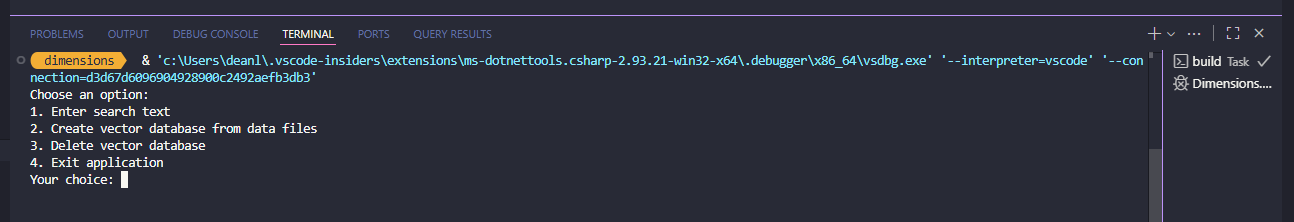
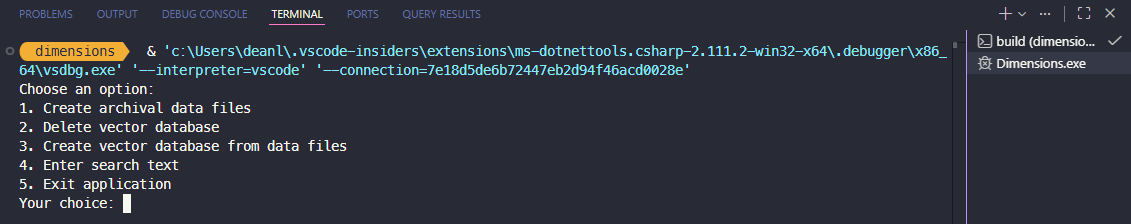
Updated README documentation.

diff --git a/README.md b/README.md
@@ -3,14 +3,11 @@
 ## :movie_camera: Background
 
 This application:
-- generates of embeddings using a local language model,
+- generates embeddings using a local language model,
 - stores those embeddings within a vector database 
 - supports the querying of that data.
 
 It was designed as a simple tool for testing the capabilities of embeddings when used as part of semantic search use cases.
-
-> [!NOTE]
-> Search results are improving, further work required to improve relevance of results.
 
 ## :white_check_mark: Scope
 
@@ -20,8 +17,9 @@ It was designed as a simple tool for testing the capabilities of embeddings when
 - [x] Provide search function.
 - [x] Apply normalisation to embeddings.
 - [x] Implement basic chunking, use markdown format for input.
+- [x] Implement contextualisation, use alternative local LLM.
 - [ ] Test with alternative embeddings model.
-- [ ] Implement contextualisation, use alternative local LLM.
+- [ ] Test with alternative chat completion model.
 
 ## :telescope: Future Gazing
 
@@ -69,18 +67,18 @@ Details of my personal system are below.
 
 Configure LM Studio as per the [documentation](https://lmstudio.ai/docs/app/basics).
 
-Download an appropriate embeddings model.
+Download:
+- an appropriate text embedding model,
+- an appropriate LLM model for chat completion.
 
-> [!WARNING]
-> LM Studio allows the loading of language models into the running server, however, I have noticed when testing locally that these fail when generating embeddings.
+> [!NOTE] 
+> You can use [community leaderboards](https://huggingface.co/spaces/OpenEvals/find-a-leaderboard) to help select appropriate models.
 
-You can use [community leaderboards](https://huggingface.co/spaces/OpenEvals/find-a-leaderboard) to help select an appropriate model.
-
-Use the Developer tab to run your chosen model as an [API server](https://lmstudio.ai/docs/app/api).
+Use the Developer tab to run your chosen models using the [API server](https://lmstudio.ai/docs/app/api).
 
 You can use [Postman](https://www.postman.com/) to test access to the endpoints.
 
-If using the default options, you can test the local server by configuring a `POST` request with the following parameters:
+If testing your text embeddings model using the default options, you can test the local server by configuring a `POST` request with the following parameters:
 
 URL:
 ```
@@ -124,7 +122,63 @@ You should see a response which includes the embedding values:
     }
 }
 ```
+#### Application
 
+The `appsettings.json` file manages the application settings.
+
+Review the file and ensure that the settings are appropriate for your local environment.
+
+E.g. update the models names as required:
+
+```json
+{
+  "EmbeddingApi": {
+    ...
+    "Model": "text-embedding-embeddinggemma-300m"
+  },
+  "ChatCompletionApi": {
+    ...
+    "Model": "openai/gpt-oss-120b"
+  },
+  ...
+}
+```
+
+The data under test can be configured. The software is designed to use your chosen LLM to create archival data to index.
+
+> [!NOTE]
+> The quality of your archival data will depend on the model you choose. Consider trying multiple models to generate archival data.
+
+The system is configured to use the `game-historian.md` system prompt when generating archival data. You may choose to write an alternative system prompt for generating archival data. If you do, update the configuration with the new prompt location:
+
+```json
+{
+    ...
+    "SystemPromptPath": ...,
+    ...
+}
+```
+
+The `ContextSectionChunkTitles` setting specifies which sections from your archival data markdown capture a useful summary of the document's content, these sections will be added to all document chunks to maintain context.
+
+The `ArchivalTopics` setting specifies topics for the generation or archival data. These topics will be passed into your chosen LLM along with the system prompt to generate archival data.
+
+You may choose to adjust either of these settings if you author your own system prompt or change the topics to be searched.
+
+Related settings:
+
+```json
+{
+  "Contextualisation": {
+    "ContextSectionChunkTitles": [
+      ...
+    ]
+  },
+  "ArchivalTopics": [
+    ...
+  ]
+}
+```
 ### :wrench: Development Setup
 
 Clone the repository.
@@ -143,11 +197,14 @@ You can submit search terms to test their similarity to the generated embeddings
 
 ## :paperclip: Usage
 
-Populate your `data` directory with multiple `.txt` files, each representing a single entity.
-
 Start the [Qdrant](https://qdrant.tech/) vector database Docker container, the configuration for which is located in the `docker` directory.
 
-Start LM Studio and ensure your chosen model is running.
+Start LM Studio and ensure that both your text embedding and LLM models are running:
+
+![LM Studio](./docs/lm-studio.png)
+
+> [!NOTE]
+> If you are unable to run both models simultaneously due to lack of resources, consider running the LLM only while generating archival data. You can then eject the model and load your text embedding model for indexing and searching.
 
 Hit F5 in VS Code to begin debugging.
 
@@ -155,12 +212,35 @@ The application is configured to load within the integrated terminal, you should
 
 ![Terminal](./docs/terminal.png)
 
-Select the appropriate option from the menu to load your data and populate your vector database.
+Create your archival data files, if they do not yet exist:
 
-Select the search option to test queries against your populated vector database.
+```bash
+1. Create archival data files
+```
+
+> [!NOTE]
+> This operation can take a long time to complete. Consider adjusting the system prompt and related archival data settings to simplify the operation. Note that simplifying or reducing the archival data will affect the semantic meaning and search capabilities.
+
+When your archival data files have been created, create the vector database:
+
+```bash
+1. Create vector database from data files
+```
 
 You can view the content of your vector database using the following URL: 
 http://localhost:6333/dashboard
+
+![Qdrant](./docs/qdrant.png)
+
+Once you have data within your vector database, you can perform a search:
+
+```bash
+4. Enter search text
+```
+
+You will then see results which display a relevancy score:
+
+![Search](./docs/search.png)
 
 ## :wave: Contributing
 
@@ -168,7 +248,7 @@ This repository was created primarily for my own exploration of the technologies
 
 ## :gift: License
 
-I have selected an appropriate license using [this tool](https://choosealicense.com//).
+I have selected an appropriate license using [this tool](https://choosealicense.com/).
 
 This software is licensed under the [MIT](LICENSE) license.
 
